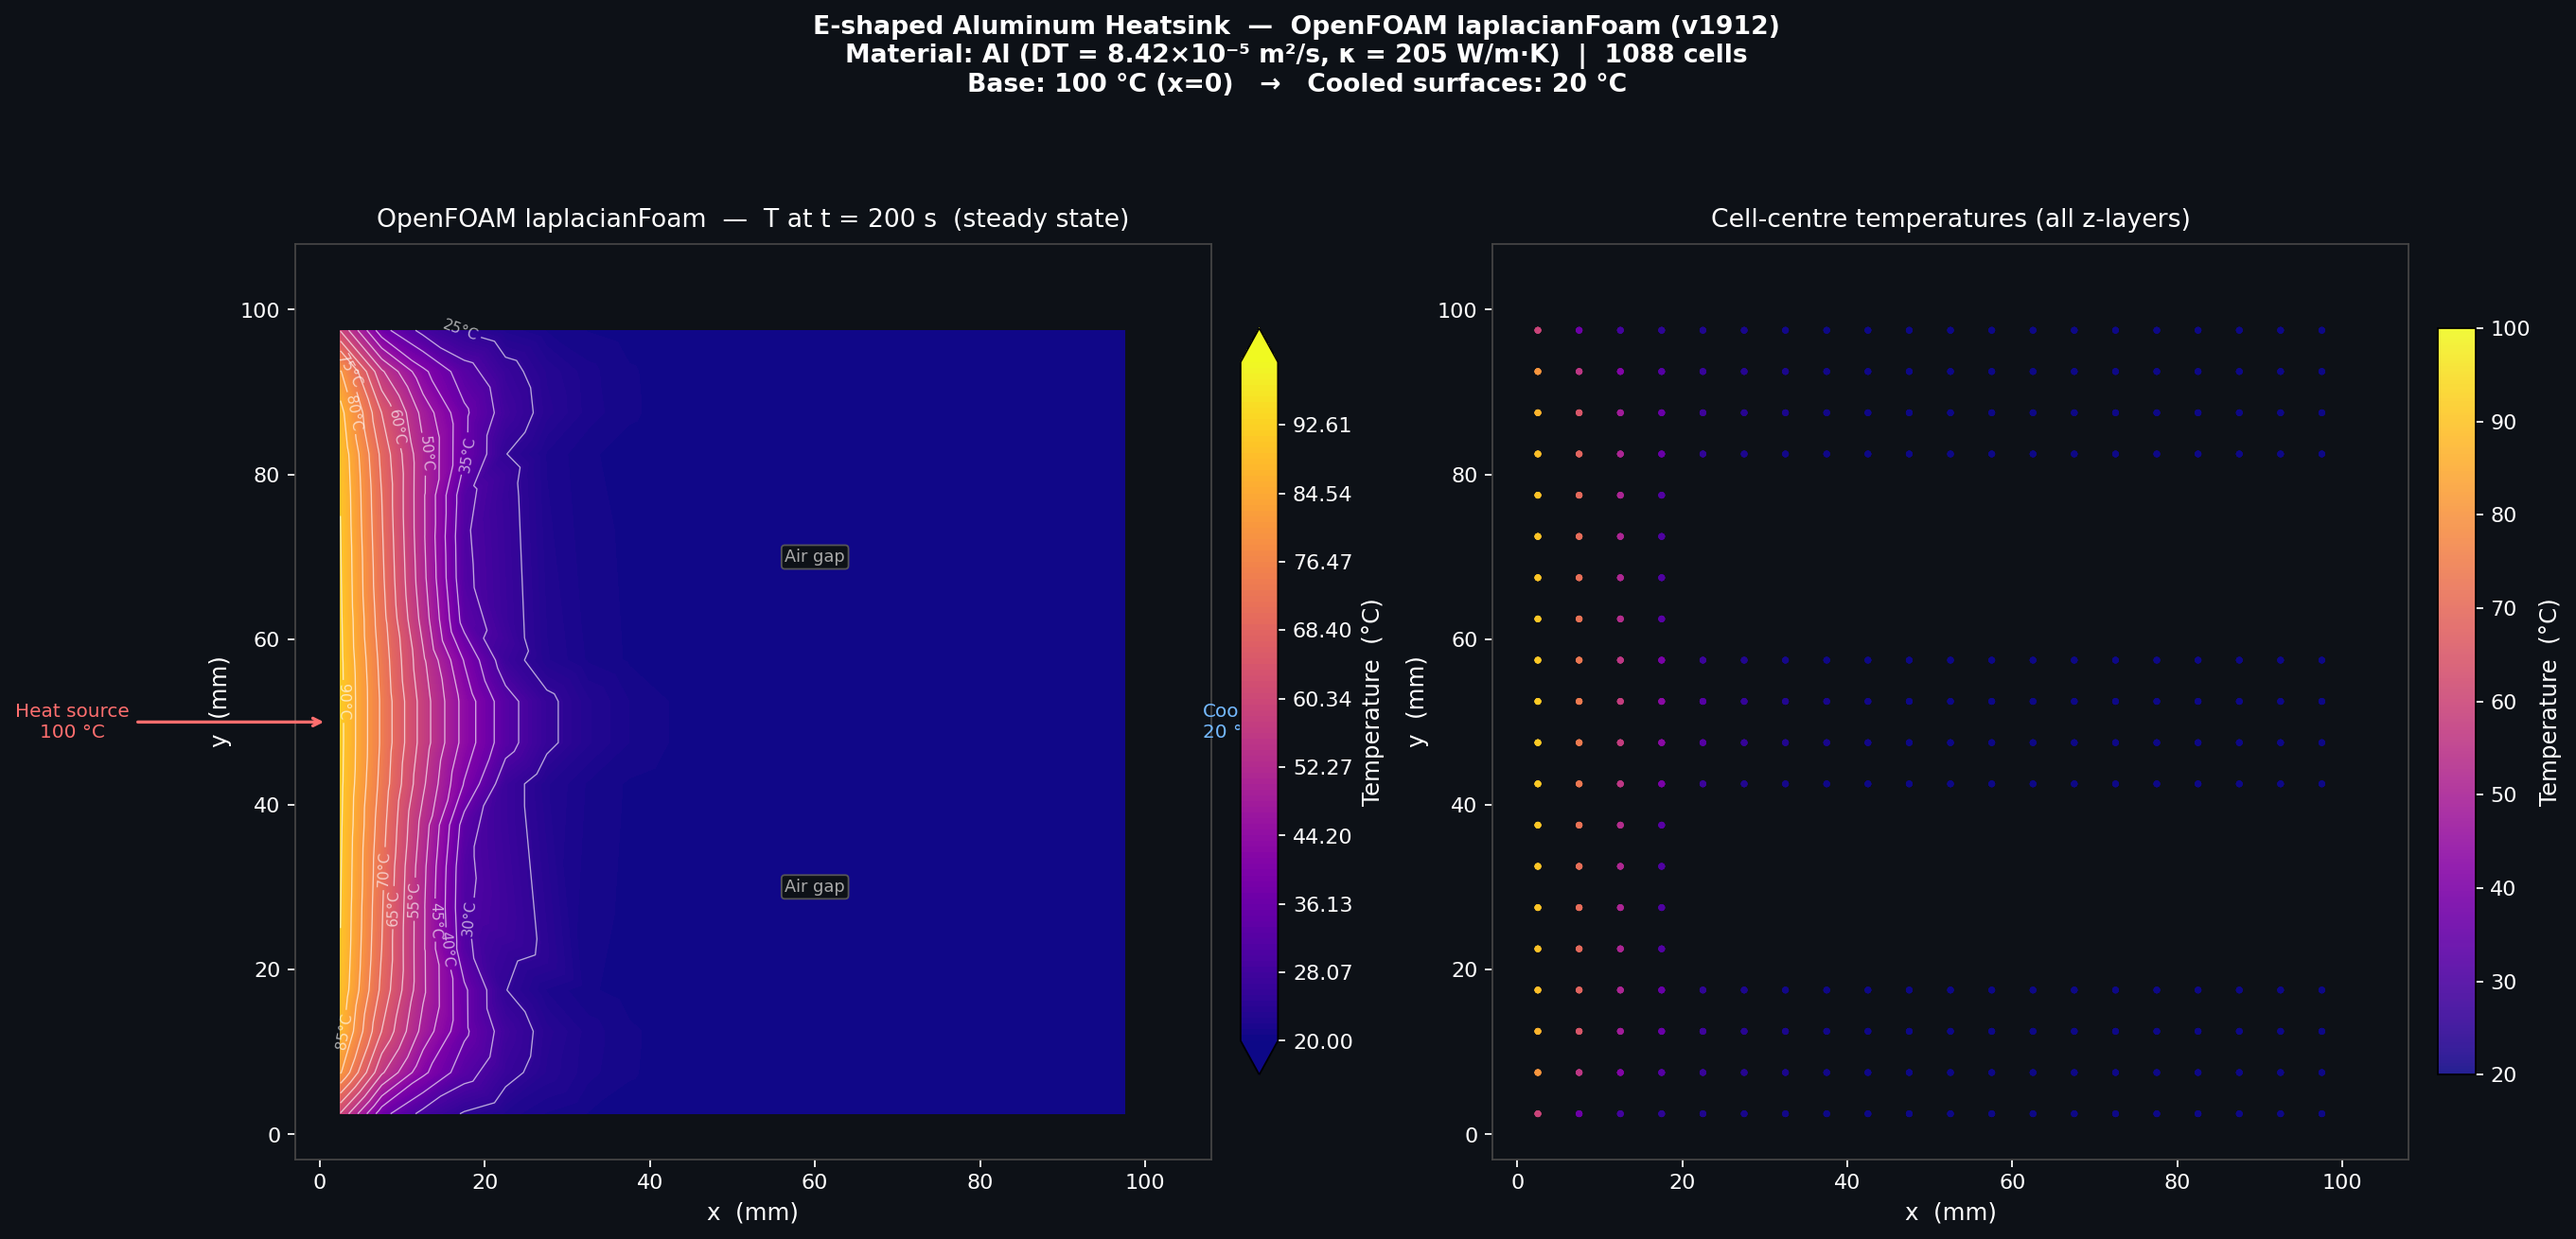
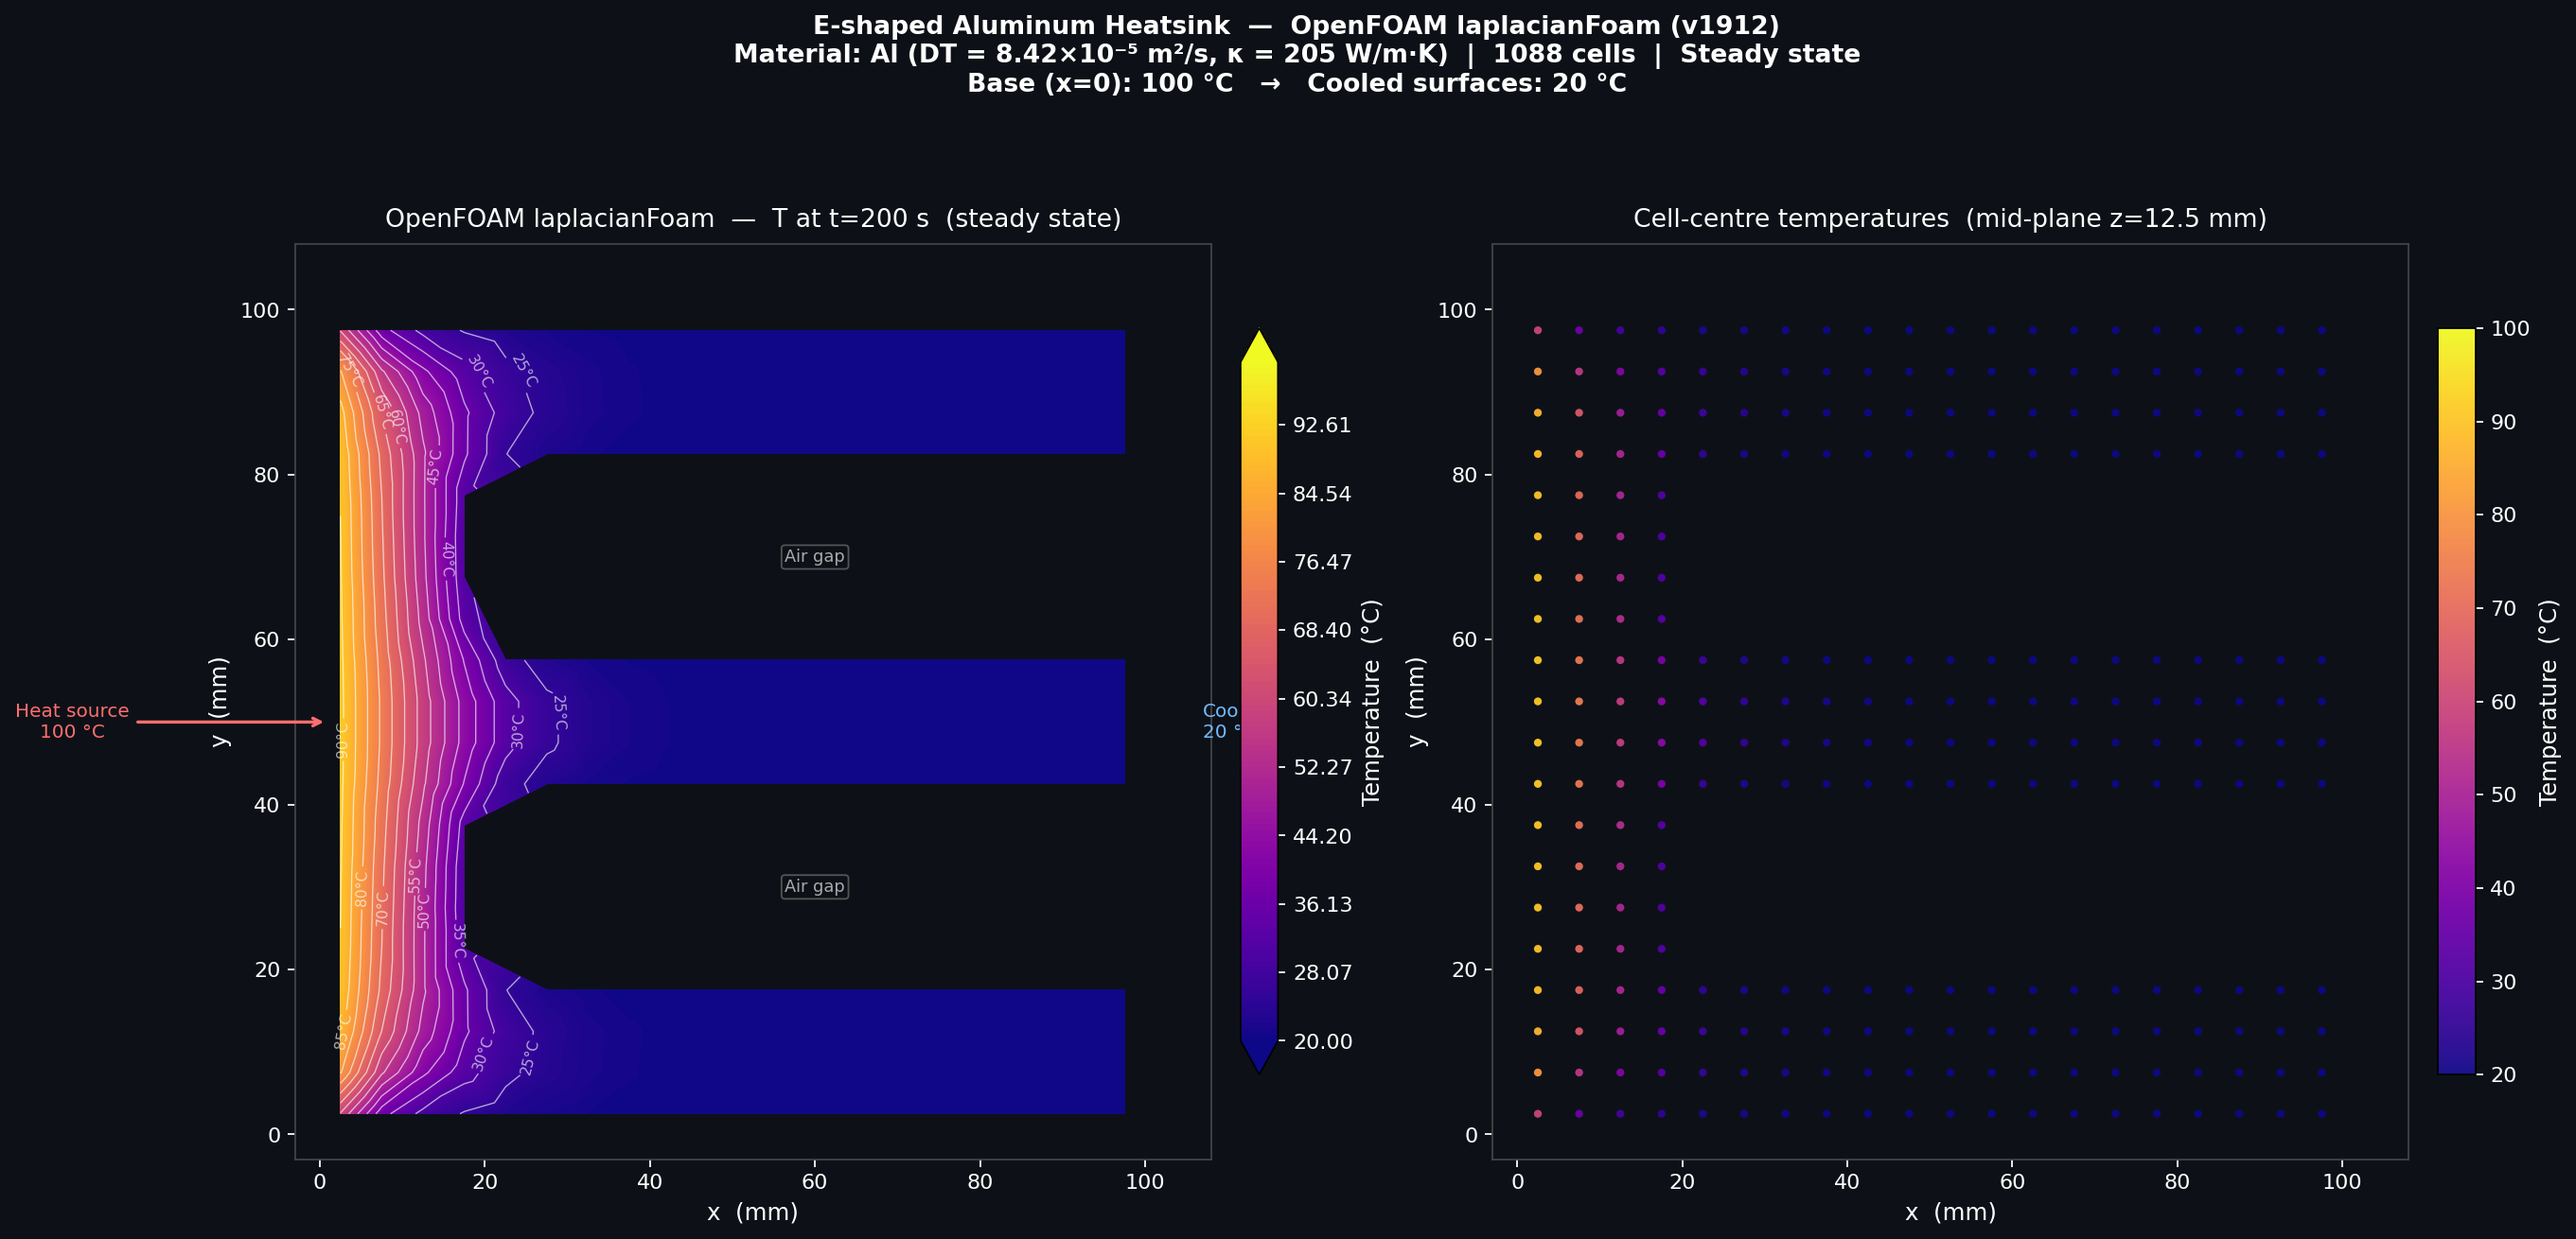
Fix OpenFOAM visualization: correct E-shape geometry
- Filter to single z-layer (mid-plane) to avoid overlapping projections
- Mask Delaunay triangles by centroid position (inside E-shape)
- Mask triangles by max edge length <12mm to prevent gap-spanning
- E-shape with correct fins and air gaps now clearly visible

https://claude.ai/code/session_015u84WVv2Pr9D9MNrxa6Fmw

diff --git a/viz_openfoam.py b/viz_openfoam.py
@@ -2,6 +2,11 @@
 """
 Visualize OpenFOAM laplacianFoam results for E-shaped aluminum.
 Reads native OpenFOAM ASCII files: polyMesh/points, polyMesh/cells, T field.
+
+Fixes vs v1:
+  - Use only the mid-plane z-layer (not all 4 z-layers overlapping)
+  - Mask triangles by centroid position AND max edge length to correctly
+    show the E-shape without filling in air gaps
 """
 
 import re
@@ -17,11 +22,8 @@ TIME = "200"
 # ── helpers ──────────────────────────────────────────────────────────────────
 
 def read_scalar_list(path):
-    """Read an OpenFOAM ASCII file containing a scalar list."""
     with open(path) as f:
         text = f.read()
-    # Find the block after 'internalField' or just the first numeric block
-    # Pattern: integer on its own line followed by ( ... )
     m = re.search(r'\b(\d+)\s*\(\s*([\d\s.e+\-]+?)\s*\)', text, re.DOTALL)
     if m:
         n = int(m.group(1))
@@ -30,15 +32,12 @@ def read_scalar_list(path):
     raise ValueError(f"Cannot parse scalar list in {path}")
 
 def read_vector_list(path):
-    """Read an OpenFOAM ASCII file containing a vector list ( (x y z) ... )."""
     with open(path) as f:
         text = f.read()
-    # Extract all (x y z) tuples
     tuples = re.findall(r'\(\s*([\d.e+\-]+)\s+([\d.e+\-]+)\s+([\d.e+\-]+)\s*\)', text)
     return np.array([[float(a), float(b), float(c)] for a, b, c in tuples])
 
-def read_cell_owner(path):
-    """Read owner file to map faces to cells."""
+def read_int_list(path):
     with open(path) as f:
         text = f.read()
     m = re.search(r'\b(\d+)\s*\(\s*([\d\s]+?)\s*\)', text, re.DOTALL)
@@ -46,87 +45,102 @@ def read_cell_owner(path):
         n = int(m.group(1))
         vals = list(map(int, m.group(2).split()))
         return np.array(vals[:n])
-    raise ValueError(f"Cannot parse owner in {path}")
+    raise ValueError(f"Cannot parse int list in {path}")
 
-# ── load data ────────────────────────────────────────────────────────────────
+# ── load mesh ────────────────────────────────────────────────────────────────
 print("Reading mesh …", end=" ", flush=True)
-points = read_vector_list(f"{CASE}/constant/polyMesh/points")
-print(f"{len(points)} points", end=", ", flush=True)
+points  = read_vector_list(f"{CASE}/constant/polyMesh/points")
+owner   = read_int_list(f"{CASE}/constant/polyMesh/owner")
+neighbr = read_int_list(f"{CASE}/constant/polyMesh/neighbour")
 
-owner   = read_cell_owner(f"{CASE}/constant/polyMesh/owner")
-neighbour = read_cell_owner(f"{CASE}/constant/polyMesh/neighbour")
-
-# Read faces (list of lists)
 with open(f"{CASE}/constant/polyMesh/faces") as f:
     txt = f.read()
-
-# Each face is like:  4(0 1 2 3)  or  3(...)
 face_re = re.compile(r'\d+\s*\(([^)]+)\)')
-raw_faces = []
-# Find the big block: look for number-of-faces line then the list
 m_block = re.search(r'\b(\d+)\s*\n\s*\(', txt)
+raw_faces = []
 if m_block:
     block_start = txt.index('(', m_block.start())
-    block_inner = txt[block_start+1:]
-    depth = 1
-    end = 0
+    block_inner = txt[block_start + 1:]
+    depth, end = 1, 0
     for i, c in enumerate(block_inner):
-        if c == '(':
-            depth += 1
-        elif c == ')':
-            depth -= 1
-        if depth == 0:
-            end = i
-            break
-    block_txt = block_inner[:end]
-    for match in face_re.finditer(block_txt):
+        if c == '(':   depth += 1
+        elif c == ')': depth -= 1
+        if depth == 0: end = i; break
+    for match in face_re.finditer(block_inner[:end]):
         raw_faces.append(list(map(int, match.group(1).split())))
 
-# Compute cell centres from face owners
+# ── compute cell centres ─────────────────────────────────────────────────────
 n_cells = owner.max() + 1
-cell_pts_sum  = np.zeros((n_cells, 3))
-cell_pts_cnt  = np.zeros(n_cells, dtype=int)
+csum = np.zeros((n_cells, 3))
+ccnt = np.zeros(n_cells, dtype=int)
 
-for fid, face_nodes in enumerate(raw_faces):
-    cx = points[face_nodes, 0].mean()
-    cy = points[face_nodes, 1].mean()
-    cz = points[face_nodes, 2].mean()
+for fid, fn in enumerate(raw_faces):
+    fc = points[fn].mean(axis=0)
     ow = owner[fid]
-    cell_pts_sum[ow] += [cx, cy, cz]
-    cell_pts_cnt[ow] += 1
+    csum[ow] += fc; ccnt[ow] += 1
+    if fid < len(neighbr) and neighbr[fid] >= 0:
+        nb = neighbr[fid]
+        csum[nb] += fc; ccnt[nb] += 1
 
-for fid, face_nodes in enumerate(raw_faces):
-    if fid < len(neighbour):
-        nb = neighbour[fid]
-        if nb >= 0:
-            cx = points[face_nodes, 0].mean()
-            cy = points[face_nodes, 1].mean()
-            cz = points[face_nodes, 2].mean()
-            cell_pts_sum[nb] += [cx, cy, cz]
-            cell_pts_cnt[nb] += 1
-
-cell_centres = cell_pts_sum / cell_pts_cnt[:, None]
+cell_centres = csum / ccnt[:, None]
 print(f"{n_cells} cells")
 
+# ── load temperature ─────────────────────────────────────────────────────────
 print("Reading T field …", end=" ", flush=True)
 T_vals = read_scalar_list(f"{CASE}/{TIME}/T")
-T_C = T_vals - 273.15   # convert K → °C
+T_C    = T_vals - 273.15
 print(f"range {T_C.min():.1f} – {T_C.max():.1f} °C")
 
-# ── use z ≈ 0.01 (mid-plane) slice for 2-D plot ──────────────────────────────
-# Since the domain has symmetry in z (front/back symmetryPlane), all cells
-# at different z are valid, just pick the mid-plane
-cx = cell_centres[:, 0] * 1000   # m → mm
-cy = cell_centres[:, 1] * 1000
-cz = cell_centres[:, 2] * 1000
+# ── pick ONE z-layer (mid-plane) ─────────────────────────────────────────────
+# The 3-D mesh has 4 cells in z (0→0.02 m); cell centres at z≈0.0025,0.0075,0.0125,0.0175
+cz_vals = cell_centres[:, 2]
+z_layers = np.unique(np.round(cz_vals * 1e6).astype(int)) / 1e6   # round to µm
+z_mid    = z_layers[len(z_layers) // 2]           # pick the middle layer
+z_tol    = (z_layers[1] - z_layers[0]) * 0.4
+sel      = np.abs(cz_vals - z_mid) < z_tol
+
+cx_2d = cell_centres[sel, 0] * 1000   # m → mm
+cy_2d = cell_centres[sel, 1] * 1000
+T_2d  = T_C[sel]
+print(f"Using z-layer z={z_mid*1000:.2f} mm  ({sel.sum()} cells)")
+
+# ── E-shape membership (mm units) ────────────────────────────────────────────
+def in_e(xm, ym):
+    return (
+        (xm <= 20) |
+        (ym <= 20) |
+        ((ym >= 40) & (ym <= 60)) |
+        (ym >= 80)
+    )
+
+# ── build triangulation with proper masking ───────────────────────────────────
+tri_obj = tri.Triangulation(cx_2d, cy_2d)
+
+# centroid of each triangle must be inside E-shape
+t = tri_obj.triangles
+tri_cx = cx_2d[t].mean(axis=1)
+tri_cy = cy_2d[t].mean(axis=1)
+centroid_ok = in_e(tri_cx, tri_cy)
+
+# max edge length must be small (cell size ≈5 mm; gaps ≥20 mm → threshold=12 mm)
+pts = np.column_stack([cx_2d, cy_2d])
+v0, v1, v2 = pts[t[:, 0]], pts[t[:, 1]], pts[t[:, 2]]
+max_edge = np.maximum(
+    np.linalg.norm(v1 - v0, axis=1),
+    np.maximum(np.linalg.norm(v2 - v1, axis=1),
+               np.linalg.norm(v0 - v2, axis=1))
+)
+edge_ok = max_edge < 12.0
+
+tri_obj.set_mask(~(centroid_ok & edge_ok))
 
 # ── figure ───────────────────────────────────────────────────────────────────
 BG = "#0d1117"
 fig, axes = plt.subplots(1, 2, figsize=(17, 8), facecolor=BG)
 
-vmin, vmax = 20.0, 100.0
-fill_levels = np.linspace(vmin, vmax, 120)
-line_levels = np.arange(25, 100, 5)
+vmin, vmax   = 20.0, 100.0
+fill_levels  = np.linspace(vmin, vmax, 120)
+line_levels  = np.arange(25, 100, 5)
 
 def _style(ax, title):
     ax.set_facecolor(BG)
@@ -140,31 +154,11 @@ def _style(ax, title):
     ax.set_xlim(-3, 108)
     ax.set_ylim(-3, 108)
 
-# ─── panel 1 : filled contour ───────────────────────────────────────────────
+# ─── panel 1 : filled contour (correct E-shape) ──────────────────────────────
 ax1 = axes[0]
-tri_obj = tri.Triangulation(cx, cy)
-
-# mask triangles outside E-shape (large triangles spanning gaps)
-# any triangle with all vertices inside the E is valid
-def in_e(x, y):
-    return (
-        (x <= 20) |
-        (y <= 20) |
-        ((y >= 40) & (y <= 60)) |
-        (y >= 80)
-    )
-
-in_mask = in_e(cx[tri_obj.triangles[:, 0]],
-               cy[tri_obj.triangles[:, 0]]) & \
-          in_e(cx[tri_obj.triangles[:, 1]],
-               cy[tri_obj.triangles[:, 1]]) & \
-          in_e(cx[tri_obj.triangles[:, 2]],
-               cy[tri_obj.triangles[:, 2]])
-tri_obj.set_mask(~in_mask)
-
-cf = ax1.tricontourf(tri_obj, T_C, levels=fill_levels,
+cf = ax1.tricontourf(tri_obj, T_2d, levels=fill_levels,
                      cmap="plasma", vmin=vmin, vmax=vmax, extend="both")
-cl = ax1.tricontour(tri_obj, T_C, levels=line_levels,
+cl = ax1.tricontour(tri_obj, T_2d, levels=line_levels,
                     colors="white", linewidths=0.6, alpha=0.65)
 ax1.clabel(cl, fmt="%d°C", fontsize=7, colors="white", inline=True)
 
@@ -173,34 +167,34 @@ cb.set_label("Temperature  (°C)", color="white", fontsize=11)
 cb.ax.yaxis.set_tick_params(color="white")
 plt.setp(cb.ax.yaxis.get_ticklabels(), color="white")
 
-_style(ax1, f"OpenFOAM laplacianFoam  —  T at t = {TIME} s  (steady state)")
+_style(ax1, f"OpenFOAM laplacianFoam  —  T at t={TIME} s  (steady state)")
 
 ax1.annotate("Heat source\n100 °C", xy=(1, 50),
              xytext=(-30, 50), color="#ff6e6e", fontsize=9, ha="center", va="center",
              arrowprops=dict(arrowstyle="->", color="#ff6e6e", lw=1.5))
 ax1.text(107, 50, "Cooled\n20 °C", color="#74b9ff", fontsize=9, ha="left", va="center")
-
 for y_gap, lbl in [(30, "Air gap"), (70, "Air gap")]:
     ax1.text(60, y_gap, lbl, color="#aaaaaa", fontsize=8, ha="center", va="center",
              bbox=dict(boxstyle="round,pad=0.2", fc=BG, ec="#555", lw=0.8))
 
-# ─── panel 2 : scatter by z-layer ───────────────────────────────────────────
+# ─── panel 2 : cell-centre scatter (shows exact mesh) ────────────────────────
 ax2 = axes[1]
-sc = ax2.scatter(cx, cy, c=T_C, cmap="plasma", vmin=vmin, vmax=vmax,
-                 s=10, linewidths=0, alpha=0.9)
+sc = ax2.scatter(cx_2d, cy_2d, c=T_2d, cmap="plasma",
+                 vmin=vmin, vmax=vmax, s=14, linewidths=0, alpha=0.95)
 cb2 = fig.colorbar(sc, ax=ax2, fraction=0.038, pad=0.03)
 cb2.set_label("Temperature  (°C)", color="white", fontsize=11)
 cb2.ax.yaxis.set_tick_params(color="white")
 plt.setp(cb2.ax.yaxis.get_ticklabels(), color="white")
-_style(ax2, "Cell-centre temperatures (all z-layers)")
+_style(ax2, f"Cell-centre temperatures  (mid-plane z={z_mid*1000:.1f} mm)")
 
 fig.suptitle(
     "E-shaped Aluminum Heatsink  —  OpenFOAM laplacianFoam (v1912)\n"
-    "Material: Al (DT = 8.42×10⁻⁵ m²/s, κ = 205 W/m·K)  |  1088 cells\n"
-    "Base: 100 °C (x=0)   →   Cooled surfaces: 20 °C",
+    "Material: Al (DT = 8.42×10⁻⁵ m²/s, κ = 205 W/m·K)  |  1088 cells  |  Steady state\n"
+    "Base (x=0): 100 °C   →   Cooled surfaces: 20 °C",
     color="white", fontsize=12, fontweight="bold", y=1.03,
 )
 plt.tight_layout()
+
 out = "/home/user/Test-OpenFOAM/heat_contour_OF.png"
 fig.savefig(out, dpi=160, bbox_inches="tight", facecolor=BG)
 print(f"\nSaved → {out}")
